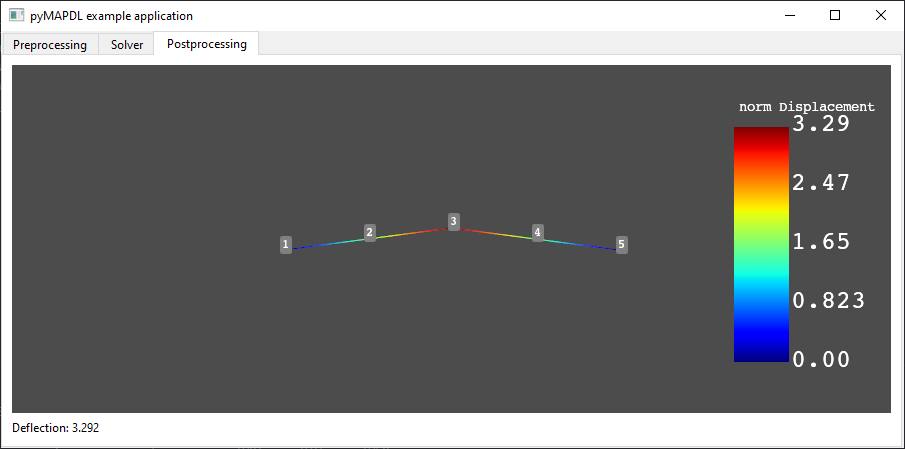
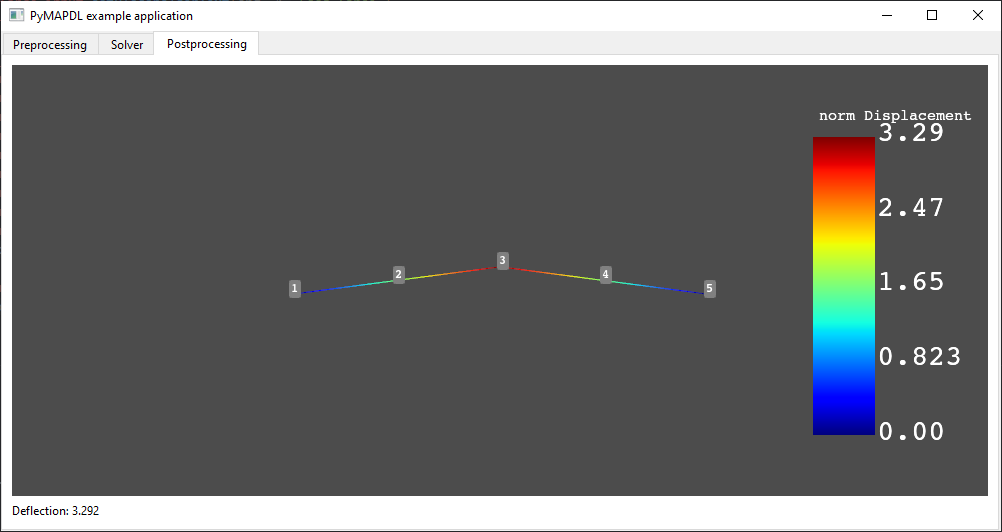
add solver image

diff --git a/doc/source/examples/extended_examples/gui/executable.rst b/doc/source/examples/extended_examples/gui/executable.rst
@@ -1,4 +1,3 @@
-
 .. _gui_example:
 
 =======================================
@@ -105,9 +104,13 @@ You can now write the related functions:
     :lines: 137-223
 
 .. image:: final_app_preprocessing.png
+    :width: 32 %
 
+.. image:: final_app_solver.png
+    :width: 32 %
 
 .. image:: final_app_postprocessing.png
+    :width: 32 %
 
 Additional files
 ================
